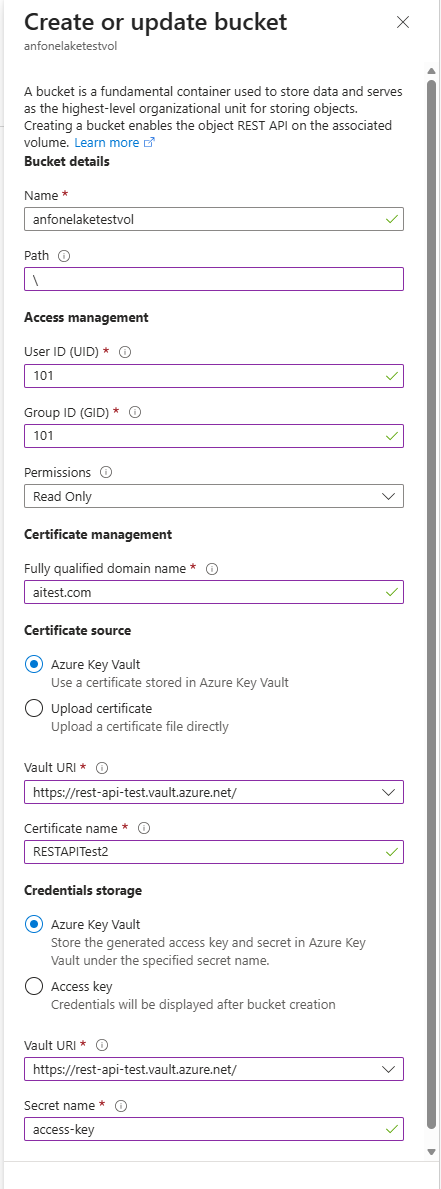
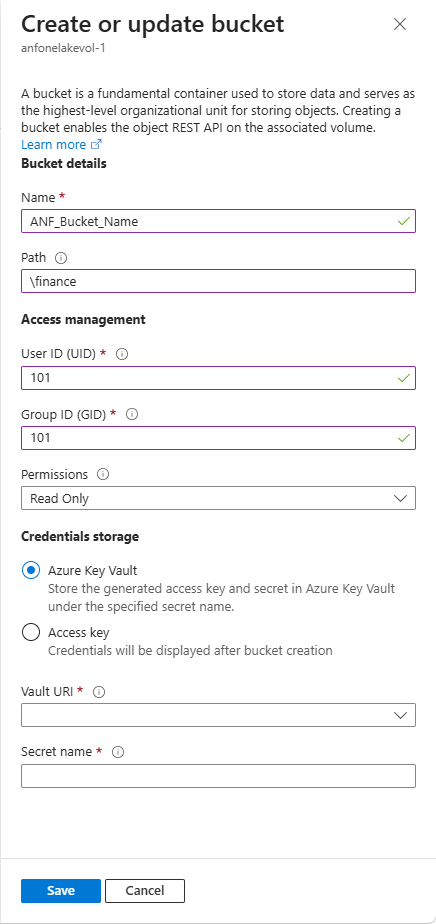
Updating TME and PM comments

Changed region(s): [[0.0, 0.0, 1.0, 1.0], [0.8945, 0.0, 0.9243, 0.0303]]

diff --git a/articles/azure-netapp-files/object-rest-api-access-configure.md b/articles/azure-netapp-files/object-rest-api-access-configure.md
@@ -9,7 +9,7 @@ ms.date: 02/16/2026
 ms.author: anfdocs
 ---
 
-# Configure object REST API in Azure NetApp Files (preview)
+# Configure object REST API for Azure NetApp Files (preview)
 
 Azure NetApp Files supports access to S3 objects with the [object REST API](object-rest-api-introduction.md) feature. With the object REST API, you can connect to services such as Azure AI Search, Microsoft Fabric, Microsoft Foundry, Azure Databricks, OneLake, and other S3‑compatible clients.
 
@@ -21,15 +21,16 @@ The object REST API feature in Azure NetApp Files is currently in preview. You m
 
 ## Create the self-signed certificate
 
-Azure NetApp Files supports two mutually exclusive certificate workflows for object REST API access:
+Azure NetApp Files supports two certificate options for object REST API access:
 
 1. **Azure Key Vault–based certificates (recommended)**: Certificates are created and stored in Azure Key Vault and the certificate is retrieved directly from Azure Key Vault during bucket creation. 
-1. **Direct certificate upload**: PEM certificates are generated locally and uploaded manually during bucket creation. 
+
+1. **Direct certificate upload**: PEM certificates are generated and uploaded manually during bucket creation. 
 
 > [!IMPORTANT]
-> The workflow you select determines the certificate format you must generate (PKCS#12 vs PEM), how the certificate is supplied during bucket creation, and how access credentials are generated and retrieved.
+> The options you select determines the certificate format you must generate (PKCS#12 vs PEM), and how the certificate is supplied during bucket creation.
 
-You must select one of the following workflows:
+You must select one of the following options:
 
 ### Option 1 (recommended): Azure Key Vault–based certificate
 
@@ -47,7 +48,7 @@ When creating the certificate in Azure Key Vault, ensure:
 
 Once the certificate is successfully created, click on the certificate from the list and review the properties.
 
-* In the Certificate identifier field, note the URI of the certificate “https://<vault_name>.azure.net”
+* In the Certificate identifier field, note the URI of the vault “https://<vault_name>.azure.net”
 * Note the name of the certificate 
 
 ### Required Azure Key Vault permissions
@@ -57,7 +58,7 @@ To avoid bucket creation failures, ensure that the Azure NetApp Files service ha
 At a minimum, the following permissions must be granted:
 
 * Certificates: Get, List, Update, Create, Import, Manage Certificate Authorities, Get Certificate Authorities, List Certificate Authorities, Set Certificate Authorities, Delete Certificate Authorities   
-* Secrets: Get, List, Set, Delete (PKCS#12 certificates are accessed as secrets)
+* Secrets: Get, List, Set, Delete 
 
 > [!NOTE]
 > If these permissions are missing, bucket creation fails when Azure NetApp Files attempts to retrieve the certificate.
@@ -65,7 +66,7 @@ At a minimum, the following permissions must be granted:
 
 ### Option 2: Direct certificate upload
 
-Use this option if you plan to generate the certificate locally and upload it manually during bucket creation.
+Use this option if you plan to generate the certificate and upload it manually during bucket creation.
 
 When creating the certificate, ensure:
 
@@ -75,7 +76,7 @@ When creating the certificate, ensure:
 
 ## Generate the certificate
 
-Use the provided script to generate a self‑signed PEM certificate locally. The script creates both the certificate and private key files required for upload. Set the computer name `CN=` to the IP address or fully qualified domain name (FQDN) of your object REST API-enabled endpoint. This script creates a folder that includes the necessary PEM file and private keys. 
+Use the provided script to generate a self‑signed PEM certificate. The script creates both the certificate and private key files required for upload. Set the computer name `CN=` to the IP address or fully qualified domain name (FQDN) of your object REST API-enabled endpoint. This script creates a folder that includes the necessary PEM file and private keys. 
 
 Create and run the following script:
 
@@ -110,8 +111,11 @@ After the certificate is created, you will need to create a bucket.
 To enable object REST API, you must create a bucket on an Azure NetApp Files volume. 
 
 1. From your NetApp volume, select **Buckets**. 
-1. Select **+Create**. 
-1. Provide the following information for the bucket:
+1. Select **+Create or update bucket**. 
+1. In Create or update bucket, provide the following information for the bucket:
+
+    **Bucket configuration**
+
     * **Name**
 
         Specify the name for your bucket. Refer to [Naming rules and restrictions for Azure resources](../azure-resource-manager/management/resource-name-rules.md#microsoftnetapp) for naming conventions.
@@ -119,6 +123,8 @@ To enable object REST API, you must create a bucket on an Azure NetApp Files vol
 
         The subdirectory path for object REST API. For full volume access, leave this field blank or use `/` for the root directory.
         
+    **Protocol access**
+
     * **NFS volume**
 
         * **User ID (UID)**
@@ -135,9 +141,9 @@ To enable object REST API, you must create a bucket on an Azure NetApp Files vol
 
              The ID used to read the bucket.
 
-    * **Permissions**
+    * **Permissions**   
 
-        Select Read or Read-Write. 
+        Select Read-only or Read and write.
 
     :::image type="content" source="./media/object-rest-api-access-configure/create-bucket.png" alt-text="Screenshot of create a bucket menu." lightbox="./media/object-rest-api-access-configure/create-bucket.png":::
 
@@ -157,17 +163,21 @@ To enable object REST API, you must create a bucket on an Azure NetApp Files vol
 
         * **Vault URI**
 
-            Select the **Vault URL** and **Certificate name** option to use a certificate stored in Azure Key Vault.
+            Select the name from the drop-down list.
 
         * **Secret name**
 
-            Enter the name of the certificate 
+            Enter the name of the certificate.
            
     * **Upload certificate**
 
         Select the **certificate** option to upload a certificate file directly.      
 
-        If you haven't provided a certificate, upload the PEM file in the **Certificate source**. 
+        If you haven't provided a certificate, upload the PEM file.
+        
+        * **Certificate source**. 
+
+            Upload the appropriate certificate. Only PEM files are supported.
                      
     **Credentials storage**
 
@@ -179,13 +189,11 @@ To enable object REST API, you must create a bucket on an Azure NetApp Files vol
 
         * **Secret name**
 
-            Enter the name of the certificate. The secret name is user-defined and can be any value.
+            Enter the name of the secret. The secret name is user-defined and can be any value, that meets the naming guidelines. 
             
     * **Access key**
 
-        Select access key to indicate this bucket will use keys. 
-    
-        Access keys are generated after the bucket is created and are displayed once in the Azure portal. You must manually copy both these values and store them securely.
+        When selecting this option, access keys are generated after the bucket is created and are displayed once in the Azure portal. You must manually copy both these values and store them securely.
 
 1. Select **Save** to validate the configuration.
 
@@ -203,7 +211,7 @@ The credential generation behavior depends on the credential storage option you 
 
 1. Enter the desired access key lifespan in days and then select **Generate credentials**.
 
-    **Azure Key Vault–based**
+    **Azure Key Vault–based credentials**
 
     * The credentials are generated and stored securely in Azure Key Vault.
     * The credentials and are not displayed in the Azure portal. 
@@ -218,7 +226,7 @@ The credential generation behavior depends on the credential storage option you 
         1. Select **Objects** then select **Secrets**.
         1. Confirm that <secret_name> has been created.
 
-    **Direct certificate upload**
+    **Access key-based credentials**
 
     When using direct certificate upload:
 
@@ -226,9 +234,12 @@ The credential generation behavior depends on the credential storage option you 
     * You should copy and store both the values securely. 
     * The credentials cannot be retrieved again after the initial display.
 
+    > [!IMPORTANT]
+    > The access key and secret access key are only displayed once. You should copy and store the keys securely. If they are lost, you must generate new credentials.
+
     **Regenerating credentials**
 
-    After the credentials are set, you can generate new credentials by selecting the three dots (`…`) on the bucket and choosing **Generate credentials**.
+    After the credentials are set, you can generate new credentials by selecting the three dots (`…`) on the bucket and selecting **Generate credentials**.
 
     > [!IMPORTANT]
     > Generating new credentials immediately invalidates existing credentials.
@@ -242,7 +253,7 @@ You can modify a bucket's access management settings.
 * Permissions
 
 1. From your NetApp volume, select **Buckets**.
-1.	Select **+Create**.
+1.	Select **+Create or update bucket**.
 1.	Enter the name of the bucket you want to modify.
 1.	Change the access management settings as required.
 1.	Click **Save** to modify the existing bucket.
@@ -253,12 +264,12 @@ You can modify a bucket's access management settings.
 
 ## Delete a bucket
 
-Deleting a bucket permanently removes it and all associated configuration. You can't recover the bucket after deleting it. 
+Deleting a bucket permanently removes it and all associated configurations. You can't recover the bucket after deleting it. 
 
 1. In your NetApp account, navigate to **Buckets**. 
-1. Select the checkbox next to the bucket you want to delete. 
+1. Select the the three dots (`…`) next to the bucket you want to delete. 
 1. Select **Delete**. 
-1. In the modal, select **Delete** to confirm you want to delete the bucket. 
+1. In the Delete bucket window, select **Delete** to confirm you want to delete the bucket. 
 
 ## Next steps 
 
